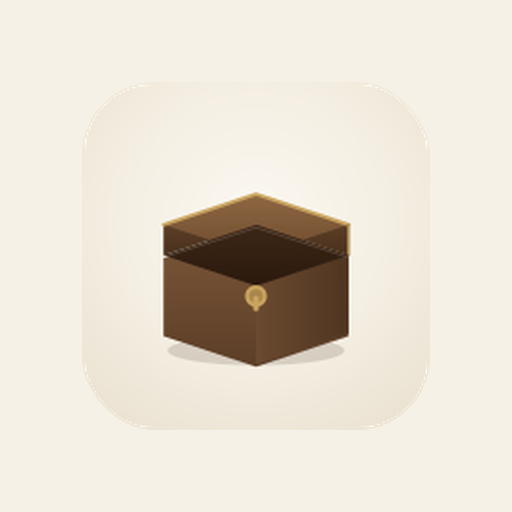
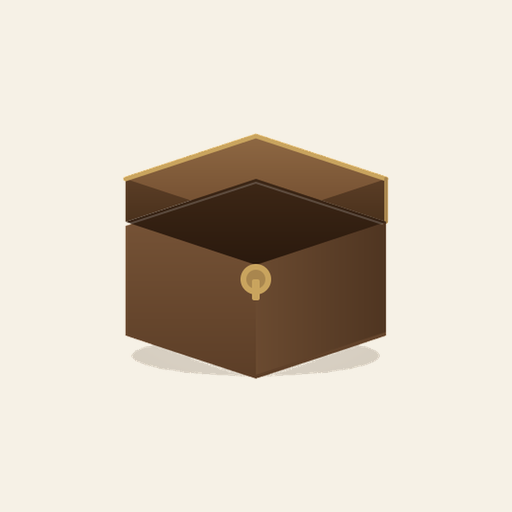
清理：移除仅剩的最新版，剔除未引用的旧图标文件

Changed region(s): [[0.2188, 0.25, 0.7812, 0.75]]

diff --git a/index.html b/index.html
@@ -18,8 +18,8 @@
   <link rel="icon" type="image/png" sizes="96x96" href="favicon-96.png">
   <link rel="icon" type="image/png" sizes="32x32" href="favicon-32.png">
   <link rel="icon" type="image/png" sizes="16x16" href="favicon-16.png">
-  <link rel="apple-touch-icon" href="pwa/apple-touch-icon.png">
-  <link rel="apple-touch-icon" sizes="180x180" href="pwa/apple-touch-icon.png">
+  <link rel="apple-touch-icon" href="pwa/apple-touch-icon-0904.png">
+  <link rel="apple-touch-icon" sizes="180x180" href="pwa/apple-touch-icon-0904.png">
   <!-- iOS 启动图（从主屏幕图标打开时显示品牌启动屏，避免白屏） -->
   <link rel="apple-touch-startup-image" media="screen and (device-width:430px) and (device-height:932px)" href="pwa/splash-6.1.png">
   <link rel="apple-touch-startup-image" media="screen and (device-width:390px) and (device-height:844px)" href="pwa/splash-6.1.png">

diff --git a/sw.js b/sw.js
@@ -6,7 +6,7 @@
    - HTML 导航采用网络优先（保证每次拿到最新页面），静态资源采用 stale-while-revalidate
      （离线秒开、在线自动后台刷新）。
    安全说明：本 SW 只缓存本站静态资源，绝不读写、上传任何 localStorage 用户数据。 */
-var VERSION = '2026.09.03.21';
+var VERSION = '2026.09.04.02';
 var PRE = 'centrove-pre-' + VERSION;
 var RUN = 'centrove-run-' + VERSION;
 
@@ -23,7 +23,7 @@ var PRECACHE_URLS = [
   './favicon-48.png',
   './favicon-96.png',
   './favicon.svg',
-  './pwa/apple-touch-icon.png',
+  './pwa/apple-touch-icon-0904.png',
   './pwa/icon-192.png',
   './pwa/icon-512.png',
   './pwa/icon-180.png',
